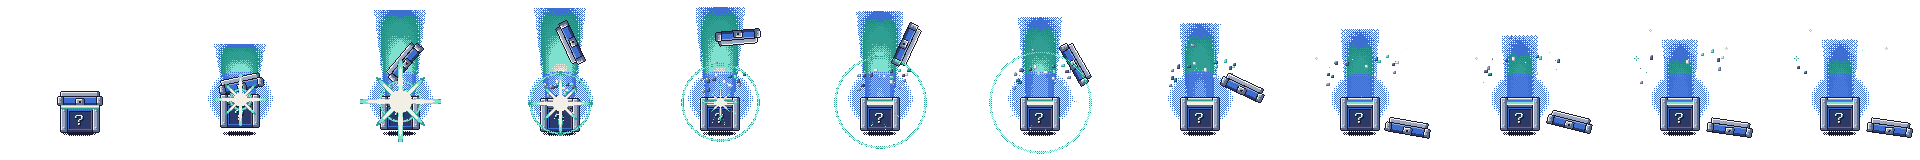
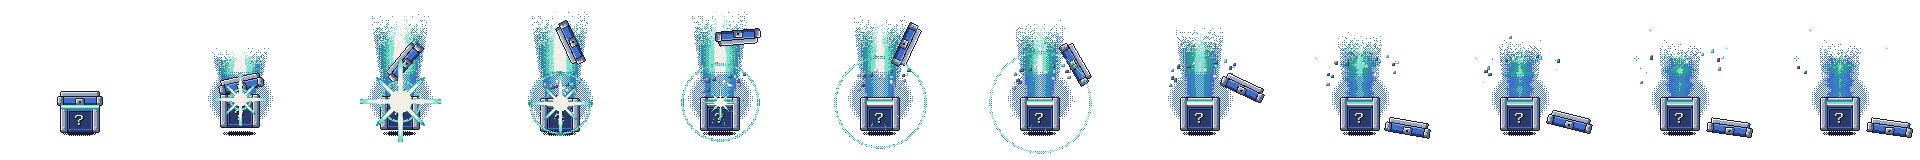
Blind box open: soft light shaft instead of a hard-cut beam
Core column, soft dithered sides widening upward, ragged dither-out over the top ~40%, shimmer on settle frames.

Claude-Session: https://claude.ai/code/session_01J8LgTLVYzThXjNSRVhWqep

diff --git a/tools/sprites/generate.py b/tools/sprites/generate.py
@@ -11402,14 +11402,18 @@ def box_glow_blob(img, th, cx, cy, rx, ry, amount, power=None):
                 px[x, y] = col + (255,)
 
 
-def box_column(img, th, cx, y_base, half0, half1, height, amount, jitter=0.3):
-    """A vertical beam of light rising from y_base: a white-hot core, a light body and a dithered edge, fading out at the top."""
+def box_shaft(img, th, cx, y_base, half0, half1, height, amount, k=0):
+    """A light shaft rising from y_base: a white-hot core column, a light body, soft dithered sides, widening upward and
+    dithering out to nothing over its top ~40% (no top edge). Settle frames (k >= 8) get a gentle upward-drifting shimmer."""
     px = img.load()
     d, m, l, h = th["glow"]
     for y in range(max(2, y_base - height), y_base):
         f = (y_base - y) / height
-        hw = half0 + (half1 - half0) * f
-        fade = amount * (1 - 0.85 * f ** 1.4)
+        hw = half0 + (half1 - half0 + 4) * f ** 0.85
+        s = min(1.0, max(0.0, (f - 0.5) / 0.5))
+        shim = 0.0
+        if k >= 8:
+            shim = 0.13 * math.sin(y * 0.42 + (k - 8) * 1.7) + 0.06 * math.sin(y * 0.9 - (k - 8) * 2.3)
         for x in range(int(cx - hw) - 1, int(cx + hw) + 2):
             if not 2 <= x < img.width - 2 or px[x, y][3]:
                 continue
@@ -11417,8 +11421,13 @@ def box_column(img, th, cx, y_base, half0, half1, height, amount, jitter=0.3):
             if u >= 1:
                 continue
             bay = BAYER4[y % 4][x % 4] / 16
-            v = fade * (1 - u ** 2.4) - (bay - 0.5) * jitter * (u + 0.2)
-            col = h if v > 0.78 else l if v > 0.5 else m if v > 0.26 else d if v > 0.08 else None
+            core = max(0.0, 1 - u / 0.3) * 0.4
+            noise = ((x * 73856093) ^ (y * 19349663)) % 997 / 997
+            if s > 0 and bay * 0.55 + noise * 0.45 + 0.02 >= (1 - s) ** 1.1:  # dither dissolve, same density across the width, ragged
+
+                continue
+            v = amount * (1 - u ** 1.4) * (1 - 0.6 * s) + core * amount + shim * amount - (bay - 0.5) * (0.12 + 0.5 * u ** 2)
+            col = h if v > 0.85 else l if v > 0.55 else m if v > 0.3 else d if v > 0.1 else None
             if col:
                 px[x, y] = col + (255,)
 
@@ -11725,7 +11734,7 @@ def box_open_frame(r, k):
     if k >= 1:
         box_glow_blob(img, th, cx, oy + 6, 44, 38, (0.4 + 0.6 * th["halo"]) * (1.0 if k < 8 else 0.6))
     if height:
-        box_column(img, th, cx, oyk + 11, 15, 12 + 14 * amount, height, amount)
+        box_shaft(img, th, cx, oyk + 11, 15, 12 + 14 * amount, height, amount, k)
     if opened:
         img.alpha_composite(box_layer(th, n, ox, oyk, g=3, lid=False, open_top=True))
         px = img.load()  # the window into the box: rows of glow across the opening

diff --git a/CLAUDE.md b/CLAUDE.md
@@ -664,4 +664,4 @@ A mobile real-time PvP arena shooter. Combat feel is inspired by top-down roguel
   (melee bias): Great Ape fists 46 -> 52 and cooldown 15 -> 13, Cloud Staff 26 -> 28. Final fighters sim (48 games each, seed 3): Bolt 55, Shade 52, Flint 47, Sakura 62, Apex 36 win%
   (seeds 1/2 gave Sakura 46/41, Apex 14/36 before the Apex buff; the sim is noisy, +-10).
 - **Staff thrust FX fix** (2026-11-02, `staff-swing-fx`, code only): the Cloud Staff's "red flash beside it" was `Arena` drawing a straight 7 px salmon/white `Effects.beam` from the body centre along the aim for 0.07 s, while the staff is held at the hand (`Player.hand_offset`, 22 px lower) and thrust out, so the flash hung above the staff and popped in at full width. `swung` for `thrust` weapons now calls `Effects.thrust(shooter)`: a gold/orange tapered streak plus a plus-shaped tip glint drawn on the staff's own axis every frame (`Player.thrust_hold()` is shared with `_draw_gun`, so it follows facing / mirroring / aim), easing in over 30% and out over `THRUST_TIME` 0.24 s. No gameplay change. Preview: `tools/transition_preview.gd char=wukong special=staff_whirl press=99 fire=1 aim=x,y`.
-- **Blind box art** (2026-11-04, `box-art`, art only, no code): shop loot crate in three rarities (common steel / cool blue with teal glow, rare violet with pink glow, epic gold with a warm glow + floor glow); one chunky silhouette (lit lid with clasp, riveted metal straps, recessed plate with a glowing "?", glowing seam). generate.py "Blind box" block (constants `BOX_*` at its top hold the frame-count / cell-size table, per-rarity palette in `BOX_THEMES`), strips in `assets/fx/`, frame count = width / height: `box_<common|rare|epic>_idle.png` 8 frames of 64x64, ~8 fps loop (bob, seam pulse, glint sweep, twinkles: 2/4/6 by rarity); `box_<r>_shake.png` 8 frames of 64x64, ~16 fps once (rattle, lid lifts up to 6 px, light leaks sideways, sparks); `box_<r>_open.png` 12 frames of 160x160, ~14 fps once, hold the last frame (box centred, floor shadow y 133, lid blows off and lands on the floor to the right at x +50; beam, spiky flash, shock ring, confetti 18/24/32 pieces, settles to an open glowing box with a beam and twinkles; shake -> open should cut at the same box position: the 64 cell box is centred, scale it x1 and align the box bottom with y 133 of the 160 cell); `rays_<r>.png` 8 frames of 128x128, ~6 fps loop (12 slow rotating light rays, dithered out to the rim, one ray period per loop; for behind the reveal card). No new palette colours. Previews in the session scratchpad (`box_art/`).
+- **Blind box art** (2026-11-04, `box-art`, art only, no code): shop loot crate in three rarities (common steel / cool blue with teal glow, rare violet with pink glow, epic gold with a warm glow + floor glow); one chunky silhouette (lit lid with clasp, riveted metal straps, recessed plate with a glowing "?", glowing seam). generate.py "Blind box" block (constants `BOX_*` at its top hold the frame-count / cell-size table, per-rarity palette in `BOX_THEMES`), strips in `assets/fx/`, frame count = width / height: `box_<common|rare|epic>_idle.png` 8 frames of 64x64, ~8 fps loop (bob, seam pulse, glint sweep, twinkles: 2/4/6 by rarity); `box_<r>_shake.png` 8 frames of 64x64, ~16 fps once (rattle, lid lifts up to 6 px, light leaks sideways, sparks); `box_<r>_open.png` 12 frames of 160x160, ~14 fps once, hold the last frame (box centred, floor shadow y 133, lid blows off and lands on the floor to the right at x +50; beam (a light shaft: white-hot core, soft dithered sides widening upward, ragged dither-out over its top ~40% so there is no top edge, gentle shimmer on settle frames 8-11), spiky flash, shock ring, confetti 18/24/32 pieces, settles to an open glowing box with a beam and twinkles; shake -> open should cut at the same box position: the 64 cell box is centred, scale it x1 and align the box bottom with y 133 of the 160 cell); `rays_<r>.png` 8 frames of 128x128, ~6 fps loop (12 slow rotating light rays, dithered out to the rim, one ray period per loop; for behind the reveal card). No new palette colours. Previews in the session scratchpad (`box_art/`).
